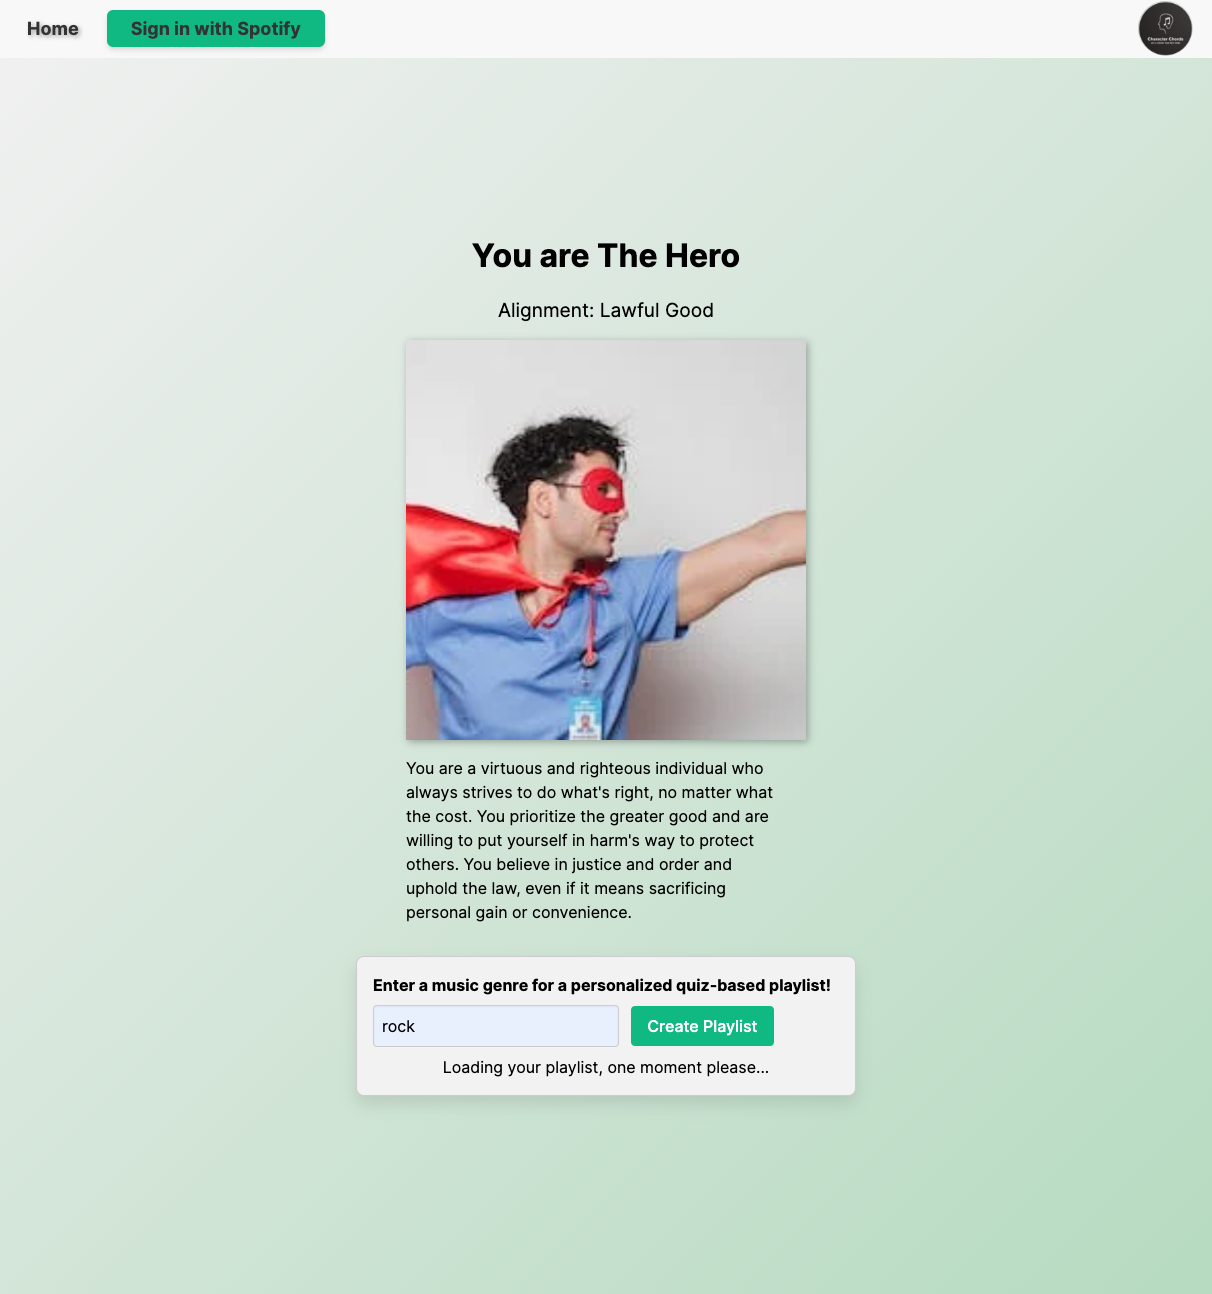
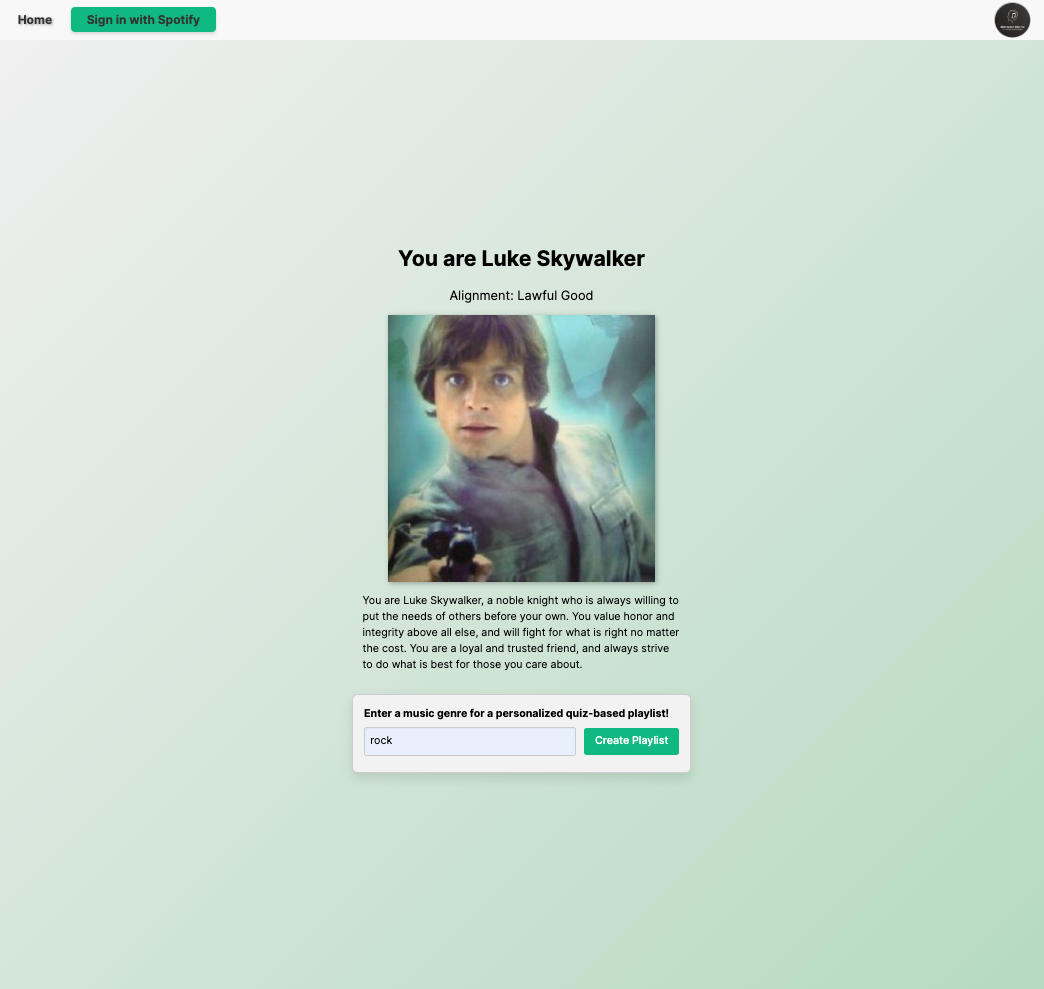
docs: Add images to projects

Changed region(s): [[0.2759, 0.182, 0.705, 0.8493], [0.5517, 0.0, 1.0, 0.0607], [0.0, 0.0, 0.2759, 0.0607]]

diff --git a/src/projects.js b/src/projects.js
@@ -1,7 +1,7 @@
 const projects = [
   {id: "project5", title: "Lynk Up", type: "school", languages: ["Python", "JavaScript"], description: "Lynk Up is a platform for creating, discovering, and managing events. From small gatherings, meetings, to large parties, Lynk Up provides an intuitive and user-friendly platform to manage them all. It encourages social interaction by allowing users to form friend groups and seamlessly organize events with them.", images: ["/images/lynk_up_home.png", "/images/lynk_up_event.png", "/images/lynk_up_create_event.png", "/images/lynk_up_friends.png", "/images/lynk_up_groups.png"]},
   {id: "project1", title: "Character Chords", type: "school", languages: ["Ruby"], description: "Explore Character Chords, a cutting-edge app merging personality assessments with AI-driven music discovery. Harnessing Ruby on Rails, PostgreSQL, CircleCI, and Amazon S3, this full-stack app integrates Spotify and OpenAI APIs to create a tailored listening experience based on users' personality traits and preferences. With Spotify OAuth, users securely access their accounts, ensuring seamless compatibility with existing preferences. Character Chords offers a technically advanced, personalized musical journey for its users", images: ["/images/cc_home.png", "/images/cc_quiz.png", "/images/cc_result.png", "/images/cc_playlist.png"]},
-  {id: "project6", title: "Quest Keeper", type: "personal", languages: ["Ruby", "JavaScript"], description: "Quest Keeper is a full-stack web application that serves as an all-in-one game master guide for Dungeons and Dragons (D&D) players. It offers features like character creation, monster and item lookup, and a dungeon builder. Designed to enhance the D&D experience, Quest Keeper provides a comprehensive toolkit for players and game masters, simplifying session management and fostering creativity in gameplay.", images: ["path_to_project4_wireframe"]},
+  {id: "project6", title: "Quest Keeper", type: "personal", languages: ["Ruby", "JavaScript"], description: "Quest Keeper is a full-stack web application that serves as an all-in-one game master guide for Dungeons and Dragons (D&D) players. It offers features like character creation, monster and item lookup, and a dungeon builder. Designed to enhance the D&D experience, Quest Keeper provides a comprehensive toolkit for players and game masters, simplifying session management and fostering creativity in gameplay.", images: ["/images/qk_home1.png", "/images/qk_home2.png", "/images/qk_character_encounter.png", "/images/qk_loot.png"]},
   {id: "project2", title: "Cinema Social", type: "school", languages: ["Ruby"], description: "Discover Cinema Social, a web application that simplifies movie night planning with friends. This innovative app leverages Ruby on Rails, PostgreSQL, HTML, and CSS to provide a seamless user experience. By utilizing APIs from The Movie Database (TMDb), Cinema Social allows users to search for movies by title, cast, or director, view comprehensive details, and receive personalized recommendations based on their search history. With the ability to create movie viewing events, add friends to attendee lists, and implement secure user authentication through the Devise gem, Cinema Social ensures an enjoyable and collaborative movie night experience.", images: ["/images/cs_home.png", "/images/cs_home_logged_in.png", "/images/cs_movie_search.png", "/images/cs_movie_results.png"]},
   {id: "project3", title: "Little Etsy Shop", type: "school", languages: ["Ruby"], description: "Little Esty Shop is a Ruby on Rails application designed to empower merchants by allowing them to create bulk discounts for their items. With a focus on simplicity and efficiency, this app enables merchants to set up discounts based on the quantity of items purchased by customers. By leveraging Ruby on Rails, PostgreSQL, and various other technologies, Little Esty Shop provides merchants with a seamless experience for managing and applying bulk discounts. The app ensures that only the highest percentage discount is applied when multiple bulk discounts are eligible for an item. With a per-item basis approach, the quantity thresholds are strictly enforced, and quantities of items cannot be combined to meet the threshold. Little Esty Shop emphasizes writing clean and comprehensive code, utilizing MVC architecture, and implementing robust testing practices to ensure a reliable and user-friendly experience.", images: ["path_to_project3_wireframe"]},
   {id: "project4", title: "BlackJack", type: "personal", languages: ["JavaScript"], description: "The application is a simplified version of a Blackjack game implemented using JavaScript. It allows users to enter their name and initial chip count, place bets, and play the game against a computer-controlled dealer. The interface displays the player's cards, sum, and message, as well as the dealer's cards and sum. Users can draw new cards, stand, and start a new game. The game logic is implemented in a separate Game class that handles card dealing, turn management, win/lose conditions, and chip handling. The application aims to provide an interactive and enjoyable Blackjack experience for users.", images: ["path_to_project4_wireframe"]}
